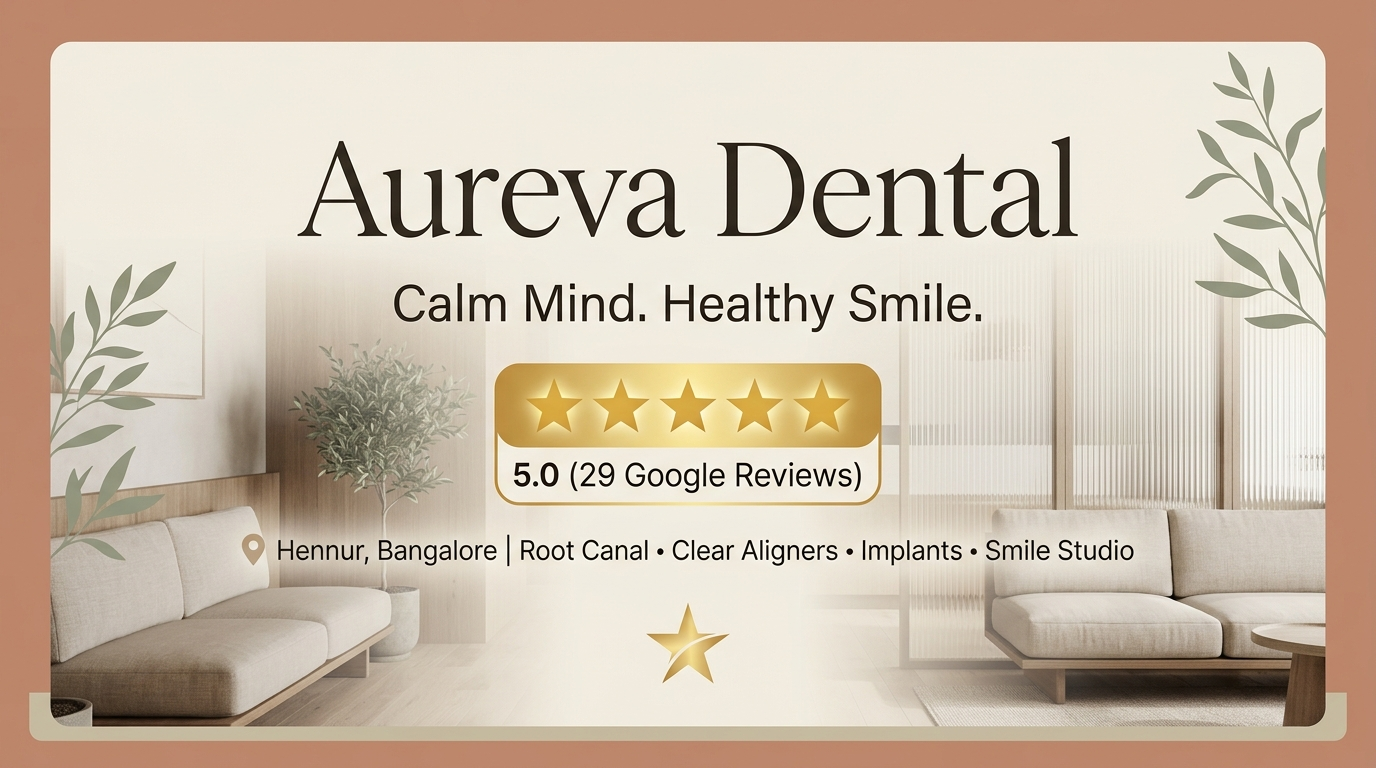
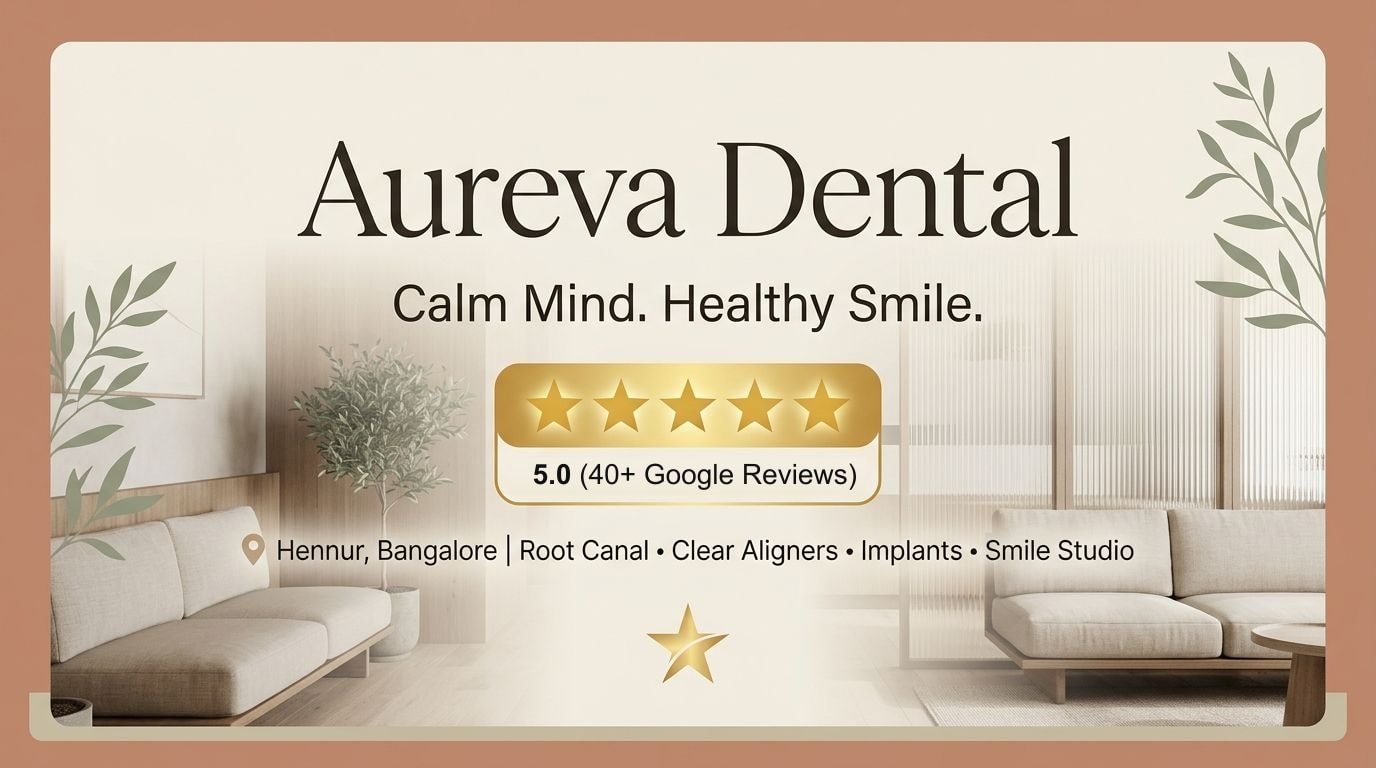
feat(hero-badge): update hero review badge to 5.0 (40+ Google Reviews) and centralize in clinicConfig

Changed region(s): [[0.375, 0.5938, 0.625, 0.6562]]

diff --git a/src/utils/seoSchemas.ts b/src/utils/seoSchemas.ts
@@ -5,6 +5,7 @@
  */
 
 import { DENTAL_OFFER_CATALOG } from '../data/dentalServiceCatalog.ts';
+import { clinicConfig } from '../config/clinic.ts';
 
 export interface FaqItem {
   question: string;
@@ -56,6 +57,13 @@ export function generateDentalClinicSchema() {
     "url": "https://aurevadental.com/",
     "telephone": "+917349701002",
     "priceRange": "₹₹",
+    "aggregateRating": {
+      "@type": "AggregateRating",
+      "ratingValue": clinicConfig.ratingValue.toFixed(1),
+      "reviewCount": clinicConfig.googleReviewsCount.toString(),
+      "bestRating": "5",
+      "worstRating": "1"
+    },
     "address": {
       "@type": "PostalAddress",
       "streetAddress": "2nd Floor, No. 11/4, SLV Nilaya, Horamavu Agara Road, Near Nayara Petrol Bunk, Hennur Bande",
@@ -377,6 +385,13 @@ export function generateDentistSchema(config: any = {}, includeFullCatalog: bool
         }
       }
     ],
+    "aggregateRating": {
+      "@type": "AggregateRating",
+      "ratingValue": clinicConfig.ratingValue.toFixed(1),
+      "reviewCount": clinicConfig.googleReviewsCount.toString(),
+      "bestRating": "5",
+      "worstRating": "1"
+    },
     "sameAs": allProfiles
   };
 }

diff --git a/src/config/clinic.ts b/src/config/clinic.ts
@@ -1,0 +1,27 @@
+/**
+ * Centralized Clinic Configuration & Constants
+ * Single source of truth for dynamic clinic parameters like review count and ratings.
+ */
+
+export const clinicConfig = {
+  // Visible review badge label across website UI
+  googleReviewsLabel: "40+",
+
+  // Numerical verified Google review count for JSON-LD schema
+  googleReviewsCount: 43,
+
+  // Google review rating value
+  ratingValue: 5.0,
+
+  // NAP & Operational facts
+  clinicName: "Aureva Dental",
+  phone: "+91 73497 01002",
+  phoneUrl: "tel:+917349701002",
+  whatsappUrl: "https://wa.me/917349701002",
+  fullAddress: "2nd Floor, No. 11/4, SLV Nilaya, Horamavu Agara Road, Near Nayara Petrol Bunk, Hennur Bande, Bengaluru, Karnataka 560043",
+  operatingHours: "Mon 4:00-9:00 PM; Tue-Sun 9:30 AM-9:00 PM (open Sundays)",
+};
+
+export const googleReviewsLabel = clinicConfig.googleReviewsLabel;
+export const googleReviewsCount = clinicConfig.googleReviewsCount;
+export const ratingValue = clinicConfig.ratingValue;
